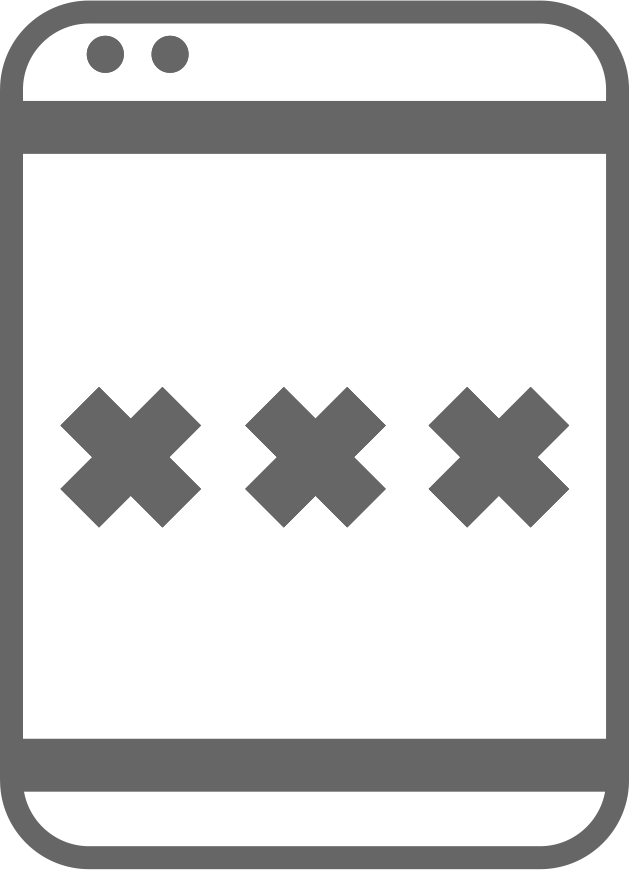
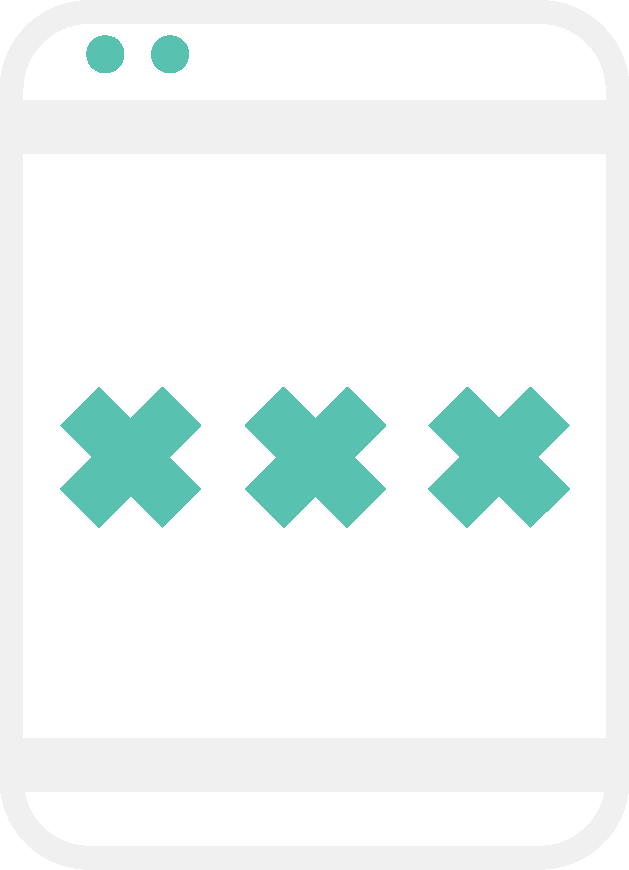
Couleur + image
Changement des couleurs du texte et des image de la navigation.

Ajout dans le dossier images des image lorsqu'un lien est actif

diff --git a/css/style.css b/css/style.css
@@ -9,7 +9,7 @@ body {
   text-align: center;
   margin: 0;
   background: #242424;
-  color: #737373;
+  color: #f0f0f0;
 }
 
 .container {
@@ -56,9 +56,9 @@ Section "piratage"
 input[type=text] {
   background-color: #242424;
   box-sizing: border-box;
-  border: 2px solid #737373;
+  border: 2px solid #f0f0f0;
   border-radius: 75px;
-  color: #737373;
+  color: #f0f0f0;
   padding: 15px 10px;
   text-align: center;
   font-family: 'Share Tech Mono', monospace;
